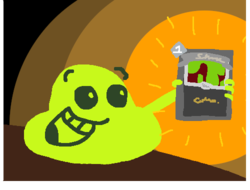
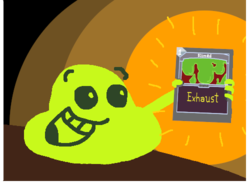
Beta Art

Changed region(s): [[0.672, 0.2105, 0.952, 0.6579]]

diff --git a/src/main/java/champ/cards/Encircle.java b/src/main/java/champ/cards/Encircle.java
@@ -8,6 +8,8 @@ import com.megacrit.cardcrawl.characters.AbstractPlayer;
 import com.megacrit.cardcrawl.monsters.AbstractMonster;
 import com.megacrit.cardcrawl.vfx.combat.WhirlwindEffect;
 
+import static champ.ChampMod.loadJokeCardImage;
+
 public class Encircle extends AbstractChampCard {
 
     public final static String ID = makeID("Encircle");
@@ -23,6 +25,7 @@ public class Encircle extends AbstractChampCard {
         // tags.add(ChampMod.COMBO);
         // tags.add(ChampMod.COMBOBERSERKER);
         postInit();
+        loadJokeCardImage(this, "Encircle.png");
     }
 
     public void use(AbstractPlayer p, AbstractMonster m) {

diff --git a/src/main/java/guardian/cards/FuturePlans.java b/src/main/java/guardian/cards/FuturePlans.java
@@ -12,6 +12,8 @@ import guardian.GuardianMod;
 import guardian.patches.AbstractCardEnum;
 import guardian.powers.FuturePlansPower;
 
+import static guardian.GuardianMod.makeBetaCardPath;
+
 public class FuturePlans extends AbstractGuardianCard {
     public static final String ID = GuardianMod.makeID("FuturePlans");
     public static final String NAME;
@@ -44,6 +46,7 @@ public class FuturePlans extends AbstractGuardianCard {
         this.socketCount = SOCKETS;
         updateDescription();
         loadGemMisc();
+        GuardianMod.loadJokeCardImage(this, makeBetaCardPath("FuturePlans.png"));
 
     }
 

diff --git a/src/main/java/slimebound/cards/LeechingTouch.java b/src/main/java/slimebound/cards/LeechingTouch.java
@@ -46,6 +46,7 @@ public class LeechingTouch extends AbstractSlimeboundCard {
 
         this.baseDamage = 5;
         this.tags.add(AbstractCard.CardTags.STRIKE);
+        SlimeboundMod.loadJokeCardImage(this, "LeechingTouch.png");
 
     }
 
